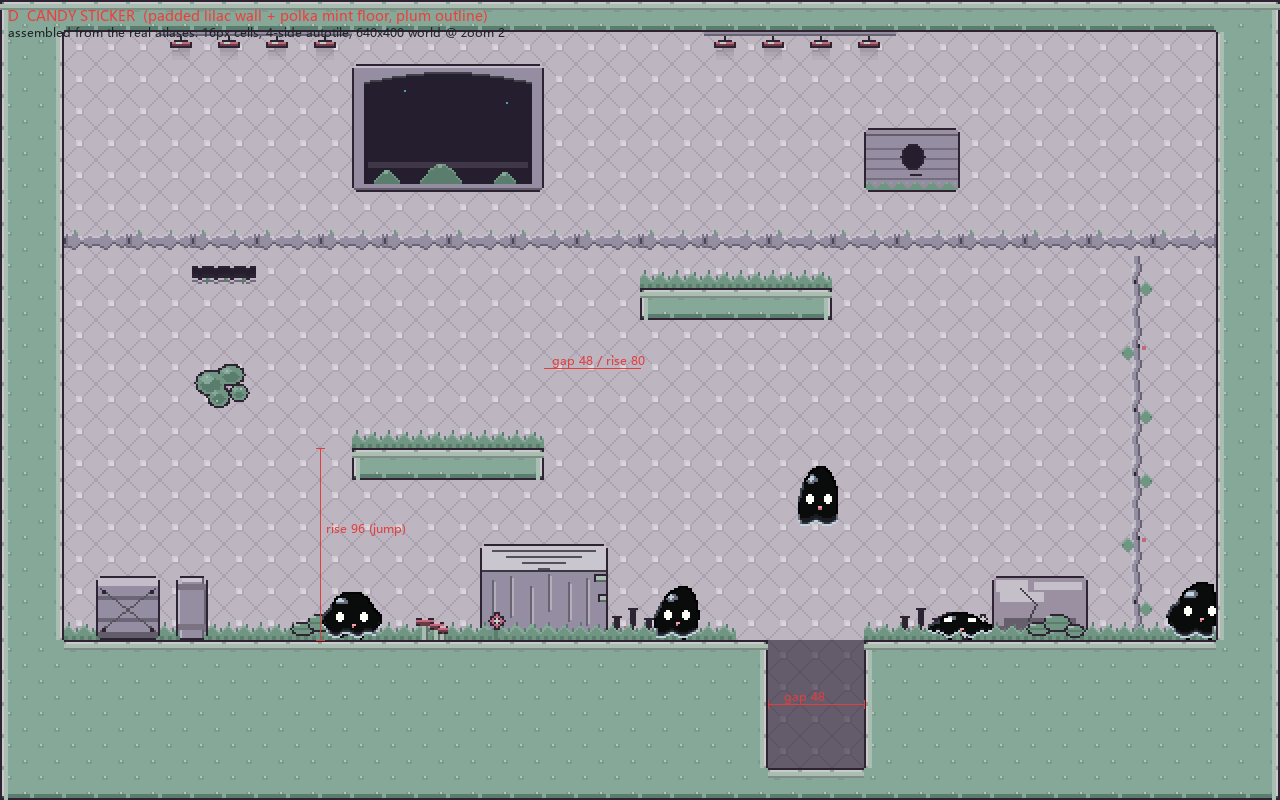
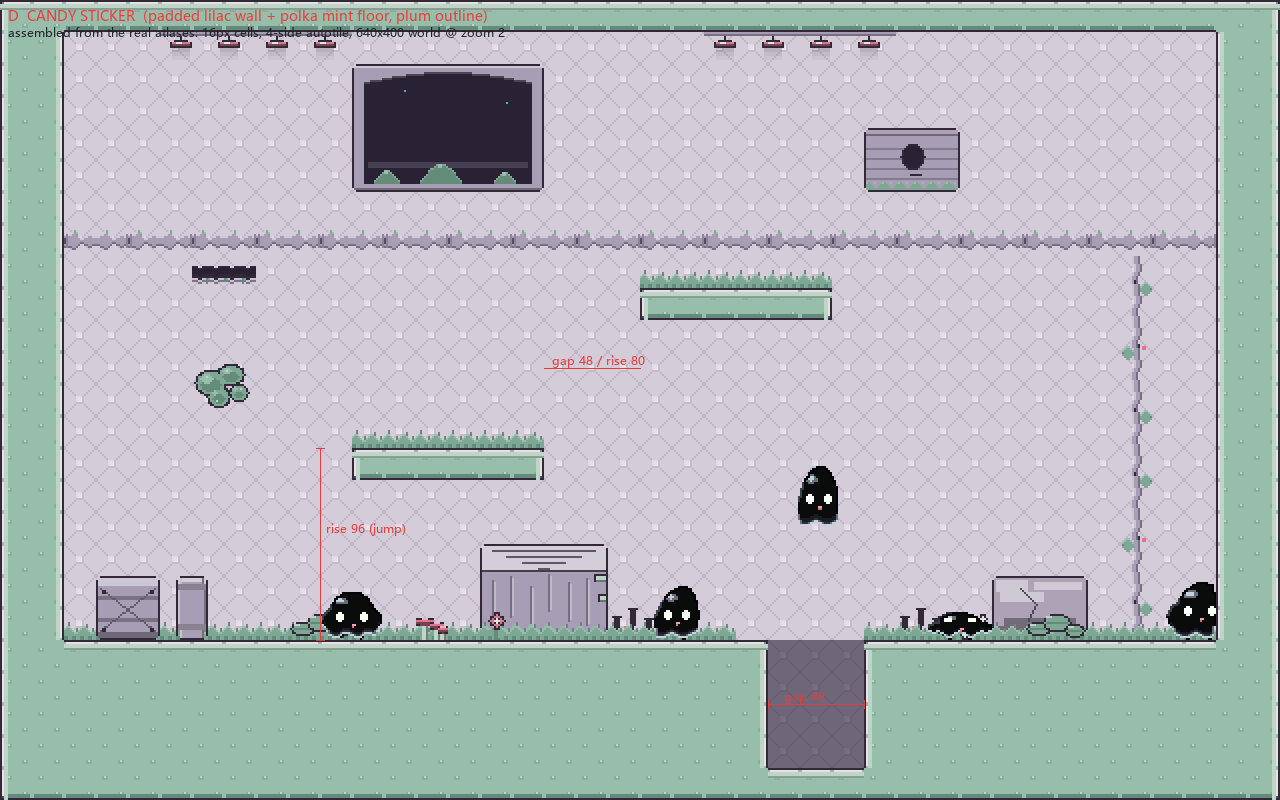
[tune] D72 订正：d 那一套的落盘亮度档从 ×0.80 回调到 A ×0.90（他试玩后说太暗）
乘数作用在 D70 的原样字面量上而不是在已降亮的值上再乘一次，避免二次舍入后
落盘值不等于选型图里他挑的那一行；选型图基线因此钉成字面量 ORIGINAL_D
（读 STYLES["d"] 会让五行读数相对当前档漂移）。验收：contrast_report 的 d 行
= wall 62.1 / p/wall 12.54 / o/wall 8.97，与图 A 行逐位相同。
顺带订正 D72 里抄错栏的那对数（「青 1.62→1.02」是 metal/墙）：降亮让比墙暗的
构件变差、比墙亮的构件变好，不是两侧一起变小。

diff --git a/tools/gen_d_dim_preview.py b/tools/gen_d_dim_preview.py
@@ -4,9 +4,12 @@
 第二关（d 亮底）太亮 / 冻结那一拍更亮 —— 降亮档选型图。
 
 两条同源口径（D58 立的规矩：选型图必须由落盘那个渲染函数直接生成）：
-  房间 = tools/gen_tiles.py 的 render_room()，换的只是 STYLES["d"] 调色板里的数值；
+  房间 = tools/gen_tiles.py 的 render_room()，换的只是调色板里的数值；
   冻结那一拍 = tools/gen_freeze_filter_preview.py 的 crt()，就是出货那段 fragment 的离线复现
               （linear_fac 1.3 / scan_fac 0.10 / 色散开），所以图里的"更亮"和游戏里是同一道算式。
+
+基线是 `ORIGINAL_D` 那个字面量（D70 那版原样 `d`），**不是** `STYLES["d"]`：后者现在自带落盘系数，
+读它会把这张图变成"相对当前档"的图，改一次档就所有行一起漂移。
 
 每档出两格：左 = 静止（世界流动），右 = 冻结（按住方向键那一拍）。
 控制台读数值用 ASCII（cp936 会把中文列名糊掉），图上的标注才用中文。
@@ -30,11 +33,26 @@ OUT = os.path.join(ROOT, "assets", "tiles", "preview_d_dim.png")
 CLIP_LINE = 255 / 1.3
 
 FACTORS = (
-    (1.00, "现况 d"),
-    (0.90, "A ×0.90"),
-    (0.80, "B ×0.80"),
+    (1.00, "原样（D72 之前）"),
+    (0.90, "A ×0.90（现落盘）"),
+    (0.80, "B ×0.80（曾落盘）"),
     (0.72, "C ×0.72"),
     (0.64, "D ×0.64"),
+)
+
+# 这张图的基线必须是**字面量**，不能读 `STYLES["d"]`：那一套现在自带落盘系数（D72 之后是 A ×0.90），
+# 再乘一遍就把选型图变成"相对于当前档"的图，每一行的读数都会跟着改档而漂移。
+# 抄自 `git show d00f5c7:tools/gen_tiles.py` 里 D70 那版原样 `d`（唯一一份没有降亮的读数）。
+ORIGINAL_D = dict(
+    label="D  CANDY STICKER  (un-dimmed baseline, d00f5c7)",
+    motif_bg="quilt", motif_terrain="dot", soft=True,
+    decor_set="grove", pickup=G.PICKUP_AMBER,
+    bg=(236, 227, 240), bg2=(214, 203, 222), bg3=(192, 180, 202),
+    surface=(168, 210, 190), grout=(140, 186, 164), deep=(112, 156, 136),
+    lip=(252, 252, 250), lip_shade=(212, 236, 222), edge=(56, 44, 62),
+    accent=(96, 196, 214), accent2=(240, 132, 158),
+    glass=(210, 238, 244), metal=(186, 176, 202), screen=(46, 38, 58),
+    pit_shade=(46, 34, 60, 150),
 )
 
 CELL_W, CELL_H = 640, 360
@@ -87,7 +105,7 @@ def palette_ceiling(p):
 
 
 def main():
-    base = G.STYLES["d"]
+    base = ORIGINAL_D
     body = (10, 12, 12)                      # 主角那团黑，与 contrast_report 同一个抄法
     rows = []
     print("factor  label     mean_stat mean_freeze  clip_freeze%  ceiling  keys_over_clip  "

diff --git a/tools/gen_tiles.py b/tools/gen_tiles.py
@@ -112,17 +112,19 @@ STYLES = {
         motif_bg="quilt", motif_terrain="dot", soft=True,
         # decor_set / pickup 是 D70 那两条：装饰从「实验室词汇」换成「树丛词汇」
         # （几何与占格一格不动，只换 painters 表），并把可拾取琥珀从 accent2 里单拎出来跟着卡走。
-        # D72 整条 ×0.80（他挑的 B 档）：这套原样均值 205，冻结那层 CRT 的 linear_fac 1.3 一乘，
-        # 45.7% 的像素至少一个通道撞天花板 —— 亮底不是暗底取反，它没有余量给"加辉"。
+        # D72 整条降亮（他挑档，2026-10-28 从 B ×0.80 回调到 **A ×0.90**：他试玩后说太暗）：
+        # 这套原样均值 205，冻结那层 CRT 的 linear_fac 1.3 一乘，45.7% 的像素至少一个通道撞天花板
+        # —— 亮底不是暗底取反，它没有余量给"加辉"。A 档把削顶从 45.7% 压到 32.0%，
+        # 没压到 B 的 3.0%：这是他在"亮"与"细节"之间自己称过一次的取舍，别再顺手调回 B。
         # 唯一不动的是 pickup：它跟着 key_card.png 那张实物零件走（同色才说得出「这张开这扇」），
         # 换风格不能把语义一起换掉（D70 第 4 条同一个道理）。
         decor_set="grove", pickup=PICKUP_AMBER,
-        bg=(189, 182, 192), bg2=(171, 162, 178), bg3=(154, 144, 162),
-        surface=(134, 168, 152), grout=(112, 149, 131), deep=(90, 125, 109),
-        lip=(202, 202, 200), lip_shade=(170, 189, 178), edge=(45, 35, 50),
-        accent=(77, 157, 171), accent2=(192, 106, 126),
-        glass=(168, 190, 195), metal=(149, 141, 162), screen=(37, 30, 46),
-        pit_shade=(37, 27, 48, 150),
+        bg=(212, 204, 216), bg2=(193, 183, 200), bg3=(173, 162, 182),
+        surface=(151, 189, 171), grout=(126, 167, 148), deep=(101, 140, 122),
+        lip=(227, 227, 225), lip_shade=(191, 212, 200), edge=(50, 40, 56),
+        accent=(86, 176, 193), accent2=(216, 119, 142),
+        glass=(189, 214, 220), metal=(167, 158, 182), screen=(41, 34, 52),
+        pit_shade=(41, 31, 54, 150),
     ),
     "e": dict(
         label="E  TOY PLAYROOM  (round subway wall + honey wood floor, brown outline)",

diff --git a/docs/context_brief.md b/docs/context_brief.md
@@ -20,7 +20,7 @@
 ## 2. 工程布局
 
 - 根目录 `D:\Godot\Ups\upstream`。**是 git 仓库**（分支 `main`，**没有配置远端**）——本地提交能回滚，但没有第二份副本，删除/覆盖仍不可恢复，操作要保守。
-- `scenes/actors/player/` 玩家（**D68 起身上多一根 `time_anchor.gd` 的 `TimeAnchor`**，代码建的子节点、不进 `player.tscn`）；`scenes/objects/` 下是门（door）、按钮（button_plate）、钟摆（pendulum）、移动方块（moving_block，D68 起进 `anchorable` 组）、祭坛（ability_altar）、感应区（sensor_zone）、尖刺（spikes）、电棒（electric_bar）、能量卡（key_pickup）、刷卡门（key_door）、存档点（checkpoint）、残影踏板（afterimage_emitter）、活塞踏板（piston_block）、坠落带（fall_zone）、彩蛋收集物（collectible）、世界钟（clock，纯装饰、零契约）、**相位面板（phase_panel）与相位穿梭块（phase_shuttle，D69 起进 `anchorable` 组）**；`components/` 是跨构件小基类（time_receiver / hazard_base / tile_draw / **clock_device（D69：相位器件的共同地基）**）；`autoloads/time_manager.gd` 时间系统；`tools/` 生成脚本与四个回归守门；`assets/player/slime/` 程序生成的像素帧；`assets/tiles/` 瓦片，**D67 起有两套落盘配色**：`lab_tileset.tres`（`g` 暗底夜光，现有关与模板都指它）与 `lab_tileset_d.tres`（`d` 糖果贴纸，给换美术风格的新关，三层 `tile_set` 一起指过去）；**外加第三份 `level_02_tileset.tres`（2026-10-27 起，第二关专用：手维护、不属于瓦片管线、`build_tileset.gd` 不认它 —— 四个源 = g 的地形与装饰 + d 的两张图集，`sources/2..3` 的物理层由关卡作者自己画；代价是没有任何守门替它验碰撞，画漏一格 = 砖没碰撞而无头照样全绿）**。**地形那 16 格两套逐格同源；装饰两套不再相同（D70）；`d` 那一套自 D72 起整条 ×0.80（亮底没有余量给冻结那层 CRT 的 1.3 倍增益，只有 `pickup` 不跟着缩）**：`d` 换成了「树丛」词汇表（`decor_set="grove"`，同名换剪影十件 + 多七件，占格与条目名一格没动），所以 **g→d 整层复制合法、d→g 会掉那七块皮**，`tileset_selftest` 钉着这条方向。
+- `scenes/actors/player/` 玩家（**D68 起身上多一根 `time_anchor.gd` 的 `TimeAnchor`**，代码建的子节点、不进 `player.tscn`）；`scenes/objects/` 下是门（door）、按钮（button_plate）、钟摆（pendulum）、移动方块（moving_block，D68 起进 `anchorable` 组）、祭坛（ability_altar）、感应区（sensor_zone）、尖刺（spikes）、电棒（electric_bar）、能量卡（key_pickup）、刷卡门（key_door）、存档点（checkpoint）、残影踏板（afterimage_emitter）、活塞踏板（piston_block）、坠落带（fall_zone）、彩蛋收集物（collectible）、世界钟（clock，纯装饰、零契约）、**相位面板（phase_panel）与相位穿梭块（phase_shuttle，D69 起进 `anchorable` 组）**；`components/` 是跨构件小基类（time_receiver / hazard_base / tile_draw / **clock_device（D69：相位器件的共同地基）**）；`autoloads/time_manager.gd` 时间系统；`tools/` 生成脚本与四个回归守门；`assets/player/slime/` 程序生成的像素帧；`assets/tiles/` 瓦片，**D67 起有两套落盘配色**：`lab_tileset.tres`（`g` 暗底夜光，现有关与模板都指它）与 `lab_tileset_d.tres`（`d` 糖果贴纸，给换美术风格的新关，三层 `tile_set` 一起指过去）；**外加第三份 `level_02_tileset.tres`（2026-10-27 起，第二关专用：手维护、不属于瓦片管线、`build_tileset.gd` 不认它 —— 四个源 = g 的地形与装饰 + d 的两张图集，`sources/2..3` 的物理层由关卡作者自己画；代价是没有任何守门替它验碰撞，画漏一格 = 砖没碰撞而无头照样全绿）**。**地形那 16 格两套逐格同源；装饰两套不再相同（D70）；`d` 那一套自 D72 起整条降亮（现 **×0.90**，2026-10-28 从 ×0.80 回调；亮底没有余量给冻结那层 CRT 的 1.3 倍增益，只有 `pickup` 不跟着缩）**：`d` 换成了「树丛」词汇表（`decor_set="grove"`，同名换剪影十件 + 多七件，占格与条目名一格没动），所以 **g→d 整层复制合法、d→g 会掉那七块皮**，`tileset_selftest` 钉着这条方向。
 - 文档：`docs/architecture_chapter_01.md` 记着 **D1~D73 全部设计决策**（开工前先读，尤其是末尾的补录；D33 是留空号，下一个空号 D74）；`docs/level_authoring_guide.md` 是摆图手册；`docs/m2_level_01_layout.md` 是引导关白模说明。
 
 ## 3. 时间系统怎么实现
@@ -92,7 +92,7 @@
 - **D69 相位器件：平时受世界钟、被锚吸住时反过来跟手（2026-10-26/27，已实装、四条守门绿）**：用户提「接下来我们需要一些可以被附着并改变实际状态的物体」。**我的第一版被当场否掉**：那版把新物件写成"只有被锚着时才动"（给 `TimeReceiver` 加一道"有没有被接管"的休眠闸），用户原话「这些物体在平时也应该受到世界钟的调控，只不过在被锚点附着时会反过来调控，而不是完全独立于其他物体」——**那道休眠闸一行都没写**，整条设计改成"默认世界钟、被锚时换源"，正好复用 D68 已经铺好的路（锚只换 `TimeReceiver` 的时间源，器件不知道自己被谁喂时）。**四件东西**：`components/clock_device.gd`（周期器件共同地基，`_clock` 只按 `get_physics_delta()` 攒、`cycle_on() = fposmod(_clock+phase, period) < period*duty`，`period<=0` 恒开）+ `scenes/objects/phase_panel/`（中间 32×16 底座**永远实**、两侧 `panel_size` 桥面按相位现形）+ `scenes/objects/phase_shuttle/`（48×16 实心踏板在 A/B 两个停靠点之间**整块瞬移**，B = A + `offset`，不载人）+ 两件都进 `anchorable` 族、层 4 / mask 0、挂 `TimeReceiver`。**六行行为矩阵**（这条决定的核心）：未吸附+流动→自己开合；未吸附+冻结→停住；吸附+人站着（世界流着）→停住；吸附+人按着方向（世界冻着）→照着走；移动中 E 回收→目标当帧回世界钟（=0 delta）→停住；站着回收→回世界钟继续走、**相位不回到 0**。**三条裁定**：D1 底座常实（桥面虚时人不会踩空，`PhasePanel` 只切 `PanelShape.disabled`）；D2 变实/换位前问一次物理世界（`PROBE_INSET = 1 px` + `CLEAR_MASK = 2|4`，玩家或别的 time_solid 占着就停在旧状态、报 `blocked`，让开那一帧接着变；**不含地形层** —— 摆歪进墙是摆图错误，不该让器件永远变不实）；D3 穿梭块不是电梯（整块瞬移、没有中间位置、不带着人走）。**两条非显然**：子类一律 `extends "res://components/clock_device.gd"` 走路径（headless 的 `global_script_class_cache.cfg` 不可靠）；形状资源必须第一次用时 `duplicate()` 成自己独占的那份（`.tscn` 的 sub_resource 同场景多实例共用，D21 那个坑）。**摇表成本**：`period 2.0 / duty 0.5` 最坏 1.0 s，260 px/s × 1.0 s = 260 px < 320 px 射程 —— 玩家按着键把锚吸上去，够得着它走满一整个窗口。**守门**：`verify_kit` 静态钉（`ClockDevice`/两件子类共六类源码形状，禁 `_process(`、禁读 `elapsed_world_time`/`TimeManager.get_*delta`/`Engine.time_scale`/`run_state`，必须走 `_receiver.get_physics_delta()`、必须带占位查询）+ 运行期实测（底座 32×16 常开、桥面顶边与底座齐、相位采样 0.5/1.5/2.5 s 三档、改 `panel_size` 只影响自己那份、穿梭块 B 点与 `offset`、改 `step_size` 不波及同场景另一件）；`anchorables` 族扫描下限从 1 提到 **3** 并逐件点名（移动方块 + 两件新的）。`kit_selftest` 第 23 组 **50 钉**（真 `player.tscn` + 真实 Input，把六行矩阵逐行跑）。两条破坏性对照证明新钉子会响（删喂时那条、撤 `anchorable` 组）：分别 8 条 kit FAIL + 2 条 verify FAIL（`failures=3`）与恰好 3 条 FAIL，复原照绿。**留给人眼的三条**：① 面板"桥面虚着也能吸"（底座常实在射线里）在实机比例下读不读得出来；② 吸附中按方向键时"它在跟着我走"与"世界冻住"两件事同框，会不会读成 bug；③ 穿梭块整块瞬移在 CRT 下够不够"离散"（若不读，先动 `offset`/`step_size`，别改瞬移那条）。**参数留给关卡作者**：`period` / `duty` / `phase` 三件都可摆，手册 §5 与 §8a 有摆位与成本口径。
 - **D70 装饰按套分列词汇表：`d` 从实验室换成「树丛」，可拾取琥珀单拎成 `pickup`（2026-10-27，用户一句「按你推荐的做」整体放行；已实装、四条守门全绿）**：起因是他看 d 装集「第二套风格的配色更类似于森林一类的，但 decor 里依然是实验室风格的物体，不太协调」。**分析先塌缩成三个数**：d 里唯一有饱和度的色全在地形（三档鼠尾草绿）→ 森林感是配色给的、不是 `quilt` motif 给的；`metal` 对墙 **1.66**、`glass` 对墙 **1.03**、`edge` 对墙 **10.52** → **这套里装饰只剩轮廓这一条信道**，而轮廓 100% 是直角钢箱（g 相反，靠发光填充读）；唯一还读得出来的三件恰好都吃 `screen` 近黑 11.56 → "能看见的"恰好是最像机件的。**四条裁定**：① 走**温室/废弃园区**不走纯森林（在册构件全是机件，纯森林要重烤第二套构件皮 = D67 明码标价没花的那笔账，不许装饰层顺手花掉）；② **换词汇不换几何** —— `STYLES` 多一个 `decor_set` 参数（`PAINTERS` / `PAINTERS_GROVE`），条目名与占格一格不动，g 走原路；③ **一个新色都不加**，只用这套在册 12 键；④ `sign_plate` 那只卡的颜色改读 **`pickup`**（缺省回落 `accent2`，所以 g 逐字节不变）—— d 的 `accent2` 是粉，跟着本套走这块牌就在指一张场上不存在的粉卡（牌与卡 cr 1.47）。**换的十件**（同名换剪影，占格不变）：横根 / 垂藤 / 石拱洞口 / 吊光盖菌 / 木巢箱 / 贴壁地衣 / 墙缝 / 树桩 / 岩石 / 荆棘带；**新增七件**（摆在图集 x≥224 空列）：`moss_edge` `leaf_cluster` `mushroom` `flower` `bones` `crate_wood` `barrel`，d 的装饰 14 → **21** 块。**八条非显然里最该记的三条**：**图集矩形会撞车且不报错**（我按"x≥224 整列空着"摆新增件，忘了 `vent=(208,0,32,16)` 的右半正压在那一列第一行 —— 后画的盖掉前画的，图集里看是一块、清单里记两块，刷进关卡才现形），所以生成器落盘前跑 `check_decor_rects()`；**亮底与暗底是两套不同的可读性物理**（光晕无处可叠，`lip` 对白墙只有 1.22，所以"这里亮"改由形状+影来说，危险改由 `edge` 的实心尖说而不是由条纹说）；**`moss_edge` 画在格子的下半截**（Decor 在地形后面，"草长在台面上"要往台面上方那一格刷，整格填满会读成悬空的砖）。**守门**：`check_decor_rects()`（把 `moss_edge` 挪回 `(224,0)` 当场 FAIL）+ `tileset_selftest` 新增 `_check_sets_share_rects()`（**落盘那套的条目必须在每一套里都有、共有条目矩形逐格相同；方向是单向的** —— 两套条目数相等时这条顺带成立，D70 让两套第一次不对称，它第一次可被破坏而没人报错，所以现在才钉；手改 `tiles_d.json` 把 `monitor` 挪一格 → `[g/d] 共有条目 monitor 的矩形两套必须相同` 当场响）。四条无头守门：`TILESET SELFTEST DONE failures=0 checks=677`（634→677）/ `VERIFY DONE doors=3 pistons=5 fallzones=1 anchorables=3 failures=1`（唯一 FAIL 仍是用户 WIP `level1.tscn` 的 `Objects` 容器位移，不代修；`anchorables` 从 1 涨到 3 是 D69 那两件相位器件进族）/ `[kit-selftest] done failures=0` / `SPRITE SELFTEST DONE failures=0`。**g 侧可核零变化**：`git diff` 对 `lab_tileset.tres` / `tiles.json` / 两张 `tilesheet_*.png` / `preview_tiles.png` 与其余八张 `preview_room_*.png` 全空。**要说清的一条**：会话开始时 `lab_tileset.tres` 上带着一份**未提交**的异常改动（往 g 的资源里塞 `sources/3`/`sources/4` 挂 d 的图集 = D67 警告的"新的挂着旧的"那个形状），`build_tileset.gd` 重建把它覆盖回了 HEAD。**订正（同日，用户说明意图后）**：那份不是异常，是他在给第二关做混合图集并自己画物理层；我当时按形状认成了事故、还建议撤掉，是他问了一句才拦下来。这份内容现在活在 `assets/tiles/level_02_tileset.tres`（见 §2 与手册 §12），产物文件该由生成器独占这条不变。**留给人眼的一条**：树丛这套皮只在生成器的合成预览里看过（`preview_room_d.png` / `preview_tiles_d.png`），**真窗口 + 那层 CRT 之下"苔带读不读得出草口、荆棘读不读得出危险、巢箱会不会被当成第二台终端"三条都没验**；想换档（更密/更疏、纯森林、或把某件换回机件）都只动 `PAINTERS_GROVE` 里那一个函数，几何与清单不用碰。
 - **D71 第二关的混合图集搬进独立手维护资源（2026-10-27，用户一句「把第二关的瓦片资源改成独立文件」）**：他在搭第二关，往 `lab_tileset.tres` 里加了 d 的两张图集当 `sources/2..3` 并**自己画了整格碰撞**；我按形状把它认成 D67 警告过的「新的挂着旧的」那个事故、还建议 `git restore` 撤掉（**没撤成，一次都没执行**）。搬法：**逐字节复制、只换第一行的资源 uid**（新 uid 让 Godot 自己 `ResourceUID.create_id()` 生成，别手搓 base36），**源索引 0..3 一字不动** —— 关卡 `tile_map_data` 存的是 `source_id`，重排源等于让已刷的砖集体换图集。产物口径不变：`lab_tileset.tres` / `lab_tileset_d.tres` 由 `build_tileset.gd` 独占重写，**要混合图集就另存一份自己的 `.tres`，并承认它不受管线保护**。由此得到一条**守门盲区**，说清楚比假装覆盖更值钱：`tileset_selftest` 那 677 条只验清单声明的 `sources/0..1`，`level_02_tileset.tres` 一格都不验 —— 手画碰撞漏一格不会红，只能靠眼睛与实机；以后要为第二关补钉子，正解是把它作为第三条 `SETS` 记录进生成器与清单，而不是给手维护文件加一套平行检查。**流程教训（比这条决定更该记住）**：对未提交的改动，"它长什么样"替代不了"他在做什么"；给 destructive 建议前先问一句意图。**还没结清**：`lab_tileset.tres` 上那份未提交的混合图集仍在工作区（撤它需要逐次授权），副本已安全落进新文件，所以随时可以先让第二关三层指过去、再 `git restore` 那份产物。
-- **D72 `d` 那一套整条降亮到 ×0.80（2026-10-27，他报「第二关太亮，移动加上 shader 更亮」后按图挑的 B 档）**：病灶不是"亮"是**削顶** —— `freeze_crt.gdshader` 的 `linear_fac = 1.3` 是等比乘再夹 255，同一道算式 g 只有 7.9% 像素撞天花板、d 有 **45.7%**（墙 236,227,240 → 255,255,255，色相与细节一起没）。**他否掉的是"每关一个冻结增益旋钮"这条路，理由要记：「我之后的每一关都会基于同一个场景拓展而不是使用那种直接选关的设计」** ⇒ 按关分叉的修法在这个结构里不成立，会把一条全局视觉规则拆成一堆关卡私有状态。落的是调色板：`STYLES["d"]` 15 个颜色键整条 ×0.80（墙相对亮度 79.1 → 48.1、画面均值 205.5 → 165.3、冻结削顶 45.7% → 3.0%），**唯一不跟着缩的是 `pickup`** —— 它跟 `key_card.png` 那张实物零件同色才说得出「这张开这扇」（D70 第 4 条第一次真的挡下一处"顺手一起缩"）。选型图 `tools/gen_d_dim_preview.py` → `assets/tiles/preview_d_dim.png`（五行两格，房间用落盘画师 `render_room()`、冻结用出货 fragment 的离线复现 `crt()`，同源）。**两条要说清的**：① 降亮**没有**顺手还掉 D67 那笔"构件在 d 墙上读不出来"的账，方向甚至相反（同一批真色对旧/新墙：琥珀 1.34→1.18、青 1.62→1.02、LED 底座 13.51→8.53 —— 墙退到构件亮度中间，两侧距离一起变小），真要解决得走"重开构件色"；② 这次**没动 shader、也没动 `.tres`**（图集矩形与源索引不变 ⇒ 不跑 `build_tileset.gd`，也就不会覆盖他那份 WIP；`level_02_tileset.tres` 引用同一批 PNG 路径，自己就跟着变暗）。g 侧 `git diff` 全空；四条守门 `TILESET failures=0 checks=677` / `VERIFY … failures=1`（仍是 `Objects` 位移）/ `kit 0` / `sprite 0`。**留给人眼**：真窗口 + CRT 之下 B 档还亮不亮、树丛轮廓在墙 48.1 上读不读得比现在清楚。**下一个空号 D73**。
+- **D72 `d` 那一套整条降亮（2026-10-27 落 B ×0.80，**2026-10-28 订正：他试玩后嫌太暗，已回调到 A ×0.90**；起因是他报「第二关太亮，移动加上 shader 更亮」）**：病灶不是"亮"是**削顶** —— `freeze_crt.gdshader` 的 `linear_fac = 1.3` 是等比乘再夹 255，同一道算式 g 只有 7.9% 像素撞天花板、d 有 **45.7%**（墙 236,227,240 → 255,255,255，色相与细节一起没）。**他否掉的是"每关一个冻结增益旋钮"这条路，理由要记：「我之后的每一关都会基于同一个场景拓展而不是使用那种直接选关的设计」** ⇒ 按关分叉的修法在这个结构里不成立，会把一条全局视觉规则拆成一堆关卡私有状态。落的是调色板：`STYLES["d"]` 15 个颜色键整条缩（**现落 A ×0.90**：墙相对亮度 79.1 → **62.1**、画面均值 205.6 → **185.2**、冻结削顶 45.7% → **32.0%**；B ×0.80 那档是 48.1 / 165.3 / 3.0%，他试完说太暗），**唯一不跟着缩的是 `pickup`** —— 它跟 `key_card.png` 那张实物零件同色才说得出「这张开这扇」（D70 第 4 条第一次真的挡下一处"顺手一起缩"）。选型图 `tools/gen_d_dim_preview.py` → `assets/tiles/preview_d_dim.png`（五行两格，房间用落盘画师 `render_room()`、冻结用出货 fragment 的离线复现 `crt()`，同源）。**两条要说清的**：① 降亮**没有**顺手还掉 D67 那笔"构件在 d 墙上读不出来"的账，且**方向只有一半成立**（2026-10-28 用同一把尺重算：墙往下走时，比墙**暗**的构件变差 —— 主角 15.70→12.54(A)→9.91(B)、深色门体 4.29→3.43→2.71；比墙**亮**的构件变好 —— 门 LED 亮态 1.01→1.27→1.61。原文那句「青 1.62→1.02」抄错了栏，真正的青 (110,230,240) 对原样墙是 1.18），真要解决得走"重开构件色"；② 这次**没动 shader、也没动 `.tres`**（图集矩形与源索引不变 ⇒ 不跑 `build_tileset.gd`，也就不会覆盖他那份 WIP；`level_02_tileset.tres` 引用同一批 PNG 路径，自己就跟着变）。g 侧 `git diff` 全空；四条守门 `TILESET failures=0 checks=677` / `VERIFY … failures=1`（仍是 `Objects` 位移）/ `kit 0` / `sprite 0`。**留给人眼**：真窗口 + CRT 之下 A 档（墙 62.1、冻结削顶 32.0%）读起来亮不亮 —— 这一档是他在"亮"与"细节"之间称过两次的结果，别再顺手调回 B。**选型图的基线已从 `STYLES["d"]` 改成字面量 `ORIGINAL_D`**（读当前那份会让五行读数相对当前档漂移，改一次档就得一张自指的假图）；重跑打印的"现况"行两个均值是 205.6 / 226.6，文档那张表记的是 205.5 / 226.5，其余八格逐位相同。**下一个空号 D74**（D73 已用掉，本节这条只是改档、不占新号）。
 - **D73 时间锚点拆成独立一项能力（2026-10-28，用户「这应该作为一个独立的新的能力…暂时作为一个测试功能」；已实装、四条守门绿）**：绑定是事实 —— `TimeManager.is_ability_enabled` 一个 bool 同时被两族读（TimeManager 自己两道 + `time_anchor.gd` **四处**：复位/发射闸/供时闸/画瞄准线与回执）。现在 `TimeManager` 有**第二个旗标** `is_anchor_enabled`（+ `set_anchor_enabled()` + `anchor_enabled_changed`），锚点那四处换读它，**四条闸的形状一字不动**；setter **刻意不跟 `reset_state()`**（这一项不拥有世界状态）。**测试入口 = 关卡根导出项 `start_with_anchor: bool = false`**（`LevelBase._ready()` 一处写，F5/F6 都有效）—— **不加调试键**（那会长出第二个书写者）、**不进 `run_state`**、**祭坛不写它**（没有授予路径，直到以后立"锚点祭坛"那条决策）。**要说清的代价（是分离的定义不是 bug）**：只开锚点时"世界冻着它照走"那层**对照感消失**（世界不停、CRT 不上），能测的只剩"我按着它才走"+ 12 格回执；想连背景一起测就在同一关把 `start_with_ability` 也勾上 —— **两项互不蕴含、可任意组合**。守门三条钉住"分离"本身：闸名单换名、**锚点脚本里不许再出现 `TimeManager.is_ability_enabled`**（回读=重新焊上）、**关卡根必须有那句 `set_anchor_enabled(start_with_anchor)`**（导出项存在而没人写旗标=勾了没开门）；`kit_selftest` 第 22 组新增两条否定式（锚关×冻开→发不出；**锚开×冻关→发得出且世界不停**），第 22/23 组前置改成两旗标都开。反证跑过：把发射闸改回去 → `VERIFY failures=2` + `kit failures=2`；删掉关卡根那行 → `VERIFY failures=2`；复原照绿。**一条被自己的新钉子炸出来的输入坑（本项目第二次踩）**：`Input.action_press/release()` 要等**下一次主循环 flush** 才成边沿 —— 新钉里按下又松开，那一下松手落到后面"世界冻着起飞"的窗口，把钉住的世界解回流动，方块在 0.08 s 缓冲里多走 8.0 个相位（`+= d × travel_speed`，80 × 0.1 s），**红的却是别人那条相位钉**；修法是在断言后 `await _frame(3)` 把边沿就地等掉 ⇒ **凡是冻结窗口附近按过键的测试，自己先把边沿 flush 干净**。契约变更：旗标 + setter + 信号 + 一个导出项（已进白名单）；调试面板那行现在 `ability=` 与 `anchor=` 并排显示。**留给人眼**：勾 `start_with_anchor`、不勾 `start_with_ability` 跑一次，看"世界没冻、只有我按着的东西在跟我的手走"读不读得出来。**下一个空号 D74**。
 - **暂缓 · 死亡那一拍的重排（2026-09-29，四行候选已出图，他看完说「效果都不太好，暂时先不修改了」）**：D42 那版「等比收缩 + 14 滴爆裂」原样保留，`player.gd` / `death_burst.gd` 一字未动；候选图与生成器留在 `assets/player/preview_death_shatter.png`·`.gif` + `tools/gen_death_shatter_preview.py`，**要重开就从那张图接着挑**。出图时查出两条客观偏离（谁将来动这一拍都得先知道，详见 architecture 末尾那条「暂缓」）：① 实装比当年批的图多飘一条 `15×(1−s)`（缩的是 `Visual` 壳、原点在身体中心，等比缩放把底边一起收上来了）；② 那 14 滴里 5 滴是 2 px，被 `grow(-1.0)` 收成 0×0，**身体色一格都没画出来**，所以实机那蓬是白点（火星/气泡）而不是"崩出几块"。
 - **调试面板改为默认隐藏、按 T 开关（2026-09-29 用户裁定）**：理由是它常驻左上角会把摆图要看的格线全挡住。新输入动作 `dev_overlay`（physical T=84）住在 `project.godot`，开关逻辑住在 `debug_overlay.gd` 自己身上并打了 `DEBUG-KEY` 标记（打包删那一个函数就整条断开；刻意不并进 `main.gd` 的 `_unhandled_input`，那样常驻根就得认识这个节点），两条都只在 `OS.is_debug_build()` 下有效；`F11` 的 `dev_fps_cap` 照旧。**顺带按在册那条"断言不许抄第二份数"改掉一条守门**：`verify_kit` 原来把按钮带子钉成字面量 `64×24`，他自己把默认 `width` 拧到 48 就当场红 —— 现在钉的是 `width × sensor_height` 这条派生式（挡的是"改了导出项而带子没跟着重算"，实测派生跟得上）。

diff --git a/docs/level_authoring_guide.md b/docs/level_authoring_guide.md
@@ -284,6 +284,6 @@ D:/Godot/Godot_v4.6.1-stable_mono_win64_console.exe --path D:/Godot/Ups/upstream
 - **给一关换配色（D67）**：复制模板 → 选中 `Terrain/WallFill`、`Terrain/Decor`、`Terrain/Tiles` → 三层的 `tile_set` 都指到 `res://assets/tiles/lab_tileset_d.tres`。三条要紧话：**① 三层必须指同一套** —— 混指会出现地基是夜光、地形是软糖，而守门只钉"模板那三层共用 `lab_tileset.tres`"，救不了你自己新关里的混指；**② 两套的瓦片索引逐格同源**（同一批 painters，只换调色板），所以从用 g 的关里**整层复制**已摆好的 `Tiles` / `WallFill` / `Decor` 过来照样对得上，一格坐标都不用改；**方向是单向的（D69 起）** —— d 的装饰比 g 多七件，把 **d 的 Decor 层复制进 g 的关**会掉那七块皮，`tileset_selftest` 现在钉"落盘那套的条目必须在每一套里都有、共有条目的矩形逐格相同"，红的就是这条；**③ 地形跟上了，构件还没跟上** —— 在册的青色系（祭坛核心、门光幕、LED 亮态）对 d 那面浅紫墙只有 **1.01~1.18**（对 g 墙是 5.05~6.04），深色门体反而从 1.39 涨到 4.29，主角从 2.63 涨到 15.70（那圈 g2 亮边在 d 上成了一条 1.09 的没用的淡边）。真要用 d 开一关，先裁一条「构件换色」的决定（要重烤 `gen_props.py` 那批 PNG、动 `props.json` 的别名、逐件验读法），否则玩家在那一关里看不出哪盏灯亮着。七个读数全在 D67。
 - **手维护的第三份瓦片资源：`assets/tiles/level_02_tileset.tres`（D71，2026-10-27 起第二关用）**。它装的是**四张图集**：`sources/0..1` = g 的地形与装饰（清单产物原样），`sources/2..3` = d 的两张图集（**关卡作者自己在 TileSet 面板里加的，并手画了物理层**）。要紧的三句话：**① 这份文件不属于瓦片管线，`build_tileset.gd` 不认它** —— 正因为如此它不会被覆盖，但也**没有任何守门替它验碰撞与 peering**，画漏一格就是刷出来的砖没有碰撞、而四条无头全绿；**② 反过来，`lab_tileset.tres` 与 `lab_tileset_d.tres` 是纯产物**，往它们里手加源 = 下一次跑 `gen_tiles.py → --import → build_tileset.gd` 时被静默抹掉（D70 当天已经抹过一次），所以"要一份混合图集"唯一站得住的做法是**另存一份自己的 `.tres`**，就是这一份；**③ 源索引就是存档** —— 关卡的 `tile_map_data` 里存的是 `source_id`，所以这份文件里的 0/1/2/3 顺序一旦变动，已刷的砖会集体换图集；要动先动三层 `tile_set` 的指向，不要重排源。第二关那三层（`WallFill` / `Decor` / `Tiles`）指这一份，别一半指它、一半指产物。
 - **`d` 那一套的装饰是「树丛」词汇（D70，`decor_set="grove"`）**：换风格那次留下的"装饰还是实验室件"这笔账这次还了，走的是**温室 / 废弃园区**那一档（机件构件一件没动，纯森林要先重开构件换色那条决定）。同名换剪影的十件：`pipe_h`=横卧的根、`pipe_v`=垂藤、`window`=石拱洞口、`light`=吊光盖菌、`monitor`=木巢箱、`led_panel`=贴壁地衣、`vent`=墙缝、`cabinet`=树桩、`cabinet_small`=岩石、`hazard`=荆棘带；多出来的七件：`moss_edge` / `leaf_cluster` / `mushroom` / `flower` / `bones` / `crate_wood` / `barrel`。**摆的时候三条只在这套里成立**：**① `moss_edge` 刷在台面上方那一格**（它是 Decor，在地形后面；画在那格的底部，所以"草长在台面上"要往上一格刷 —— 整格填满会读成一块悬空的砖）；**② `hazard` 现在是荆棘，它的动词是"从地里长出来"**，别再照 g 那版钉在墙上，离地一格就不像话了；**③ 亮底上光晕不承载信息**（`lip` 对白墙只有 1.22），所以那排吊灯说的是"这里有东西挂着"而不是"这里亮"，要读"亮"仍然得靠构件自己的青。
-- **`d` 那一套的亮度档（D72，整条 ×0.80）**：d 原样画面均值 205、墙相对亮度 79.1，而冻结那层 CRT 是等比乘 1.3 再夹 255 —— 亮底没有余量给它，**45.7% 的像素会撞天花板**（色相与细节一起没）。现在墙 48.1 / 均值 165.3 / 冻结削顶 3.0%。三条摆图口径：**① 要再调亮度只动 `STYLES["d"]` 那 15 个颜色键**（`tools/gen_d_dim_preview.py` 一跑就出五档对比图与读数，图与出货同源）；**② `pickup` 永远不跟着缩**（它跟 `key_card.png` 那张实物零件同色，是语义不是风格 —— 缩它等于让告示牌指一张不存在的卡）；**③ 亮度降了不等于构件读得清**：同一批真色对旧墙/新墙的对比是琥珀 1.34→1.18、青 1.62→1.02，**两侧距离一起变小**，真要让构件在亮底上读出来得走"重开构件色"那笔账（D67 裁定③）。
+- **`d` 那一套的亮度档（D72，整条 ×0.90；2026-10-28 从 ×0.80 回调）**：d 原样画面均值 205、墙相对亮度 79.1，而冻结那层 CRT 是等比乘 1.3 再夹 255 —— 亮底没有余量给它，**45.7% 的像素会撞天花板**（色相与细节一起没）。现在墙 62.1 / 均值 185.2 / 冻结削顶 32.0%：这是他在"亮"与"细节"之间自己称过两次的结果（先挑 B 太暗，2026-10-28 试玩后回到 A），**别再顺手调档**。三条摆图口径：**① 要再调亮度只动 `STYLES["d"]` 那 15 个颜色键，且乘数作用在 `gen_d_dim_preview.ORIGINAL_D` 那份原样字面量上**（当前值 = 原样 ×0.90；在已降亮的值上乘系数会二次舍入，落盘就不再等于选型图里那一行）—— `tools/gen_d_dim_preview.py` 一跑就出五档对比图与读数，图与出货同源；**② `pickup` 永远不跟着缩**（它跟 `key_card.png` 那张实物零件同色，是语义不是风格 —— 缩它等于让告示牌指一张不存在的卡）；**③ 亮度降了不等于构件读得清**：墙往下走时**比墙暗的构件变差、比墙亮的构件变好**（在册真色对三档墙：主角 15.70→**12.54**(A)→9.91(B)、深色门体 4.29→**3.43**→2.71、门 LED 亮态 1.01→**1.27**→1.61、琥珀 1.34→**1.07**→1.18）。A 档比 B 档少欠一点，但"构件在亮底上读不读得清"这笔账得走 D67 裁定③的"重开构件色"，不是走亮度档（全表见 D72 节末订正）。
 - **两块无字告示牌（D56，`Decor` 层）**：`sign_card_arrow`（32×16 = 2×1 格，实心琥珀卡 + 亮白右箭头）说的是「往那边走，那里有一张卡」，`sign_card`（16×16 = 1 格，只有那只卡）说的是「这扇门要的是这个」。牌面上一个字都没有，两句全靠形状与颜色：琥珀自 D29 起专指可拾取，白只说方向 —— 所以白箭头不会被读成第二只卡，卡也不会被读成门楣那颗 LED。**那只卡的颜色走 `p["pickup"]`，不走本套的 `accent2`（D69）**：`key_card.png` 是照落盘那套的 `accent2` 烤的，牌要跟着风格一起换色就会指错东西（d 的 `accent2` 是粉，牌与卡 cr 只有 1.47）。三条要记：**① 它是装饰格，不是构件** —— 无碰撞、无导出项、不吃任何时钟（冻结与否都照原样立在那儿），摆哪一格纯看你要指哪；**② 和所有装饰一样刷在空格子里**，叠在实心地形格上会被地形盖掉（§12 上面那条坑同源）；**③ `Decor` 在 z=-20**，牌永远在那面墙上、主角身后，不会挡人。要**左向**箭头没有现成格：`TileMapLayer` 不能逐格翻转，得回 `tools/gen_tiles.py` 给 `SIGN_SIZE` / `sign_plate` 加一个 kind、`DECOR` 加一行，再跑下面那条管线。
 - 改图集的管线（一般用不到，改风格才碰）：`py tools/gen_tiles.py` → `--import` → `--script res://tools/build_tileset.gd` → `tileset_selftest`。**一次跑就把 `SHIPPED` + `EXTRA_SHIPPED` 每一套都重出**，`build_tileset.gd` 也一次出两份 `.tres`（一对清单一份产物，见 D67），不用改常量来改去。生成器落盘前先跑 `check_decor_rects()`（D69）：装饰矩形必须 16 对齐、不出界、**两两不重叠**、painters 与条目对得上 —— 摆重叠了不崩，只是后画的那件盖掉前一件，而清单里仍然记两块。预览图 `assets/tiles/preview_room_g.png` / `preview_room_d.png` 是从图集逐格拼的，和引擎同一条合成路径，所见即所得；`preview_tiles.png` / `preview_tiles_d.png` 是两套各自的图集放大图，底下那条带是**现有构件的占位色落在新地砖上**的兼容性对照（换风格要看的就是这一条，不是地形自己）。生成器每次跑还会打印一张九套风格的 WCAG 对比表（主角 silhouette 对墙低于 4.5 会标出来，D26 第 8 条）。
